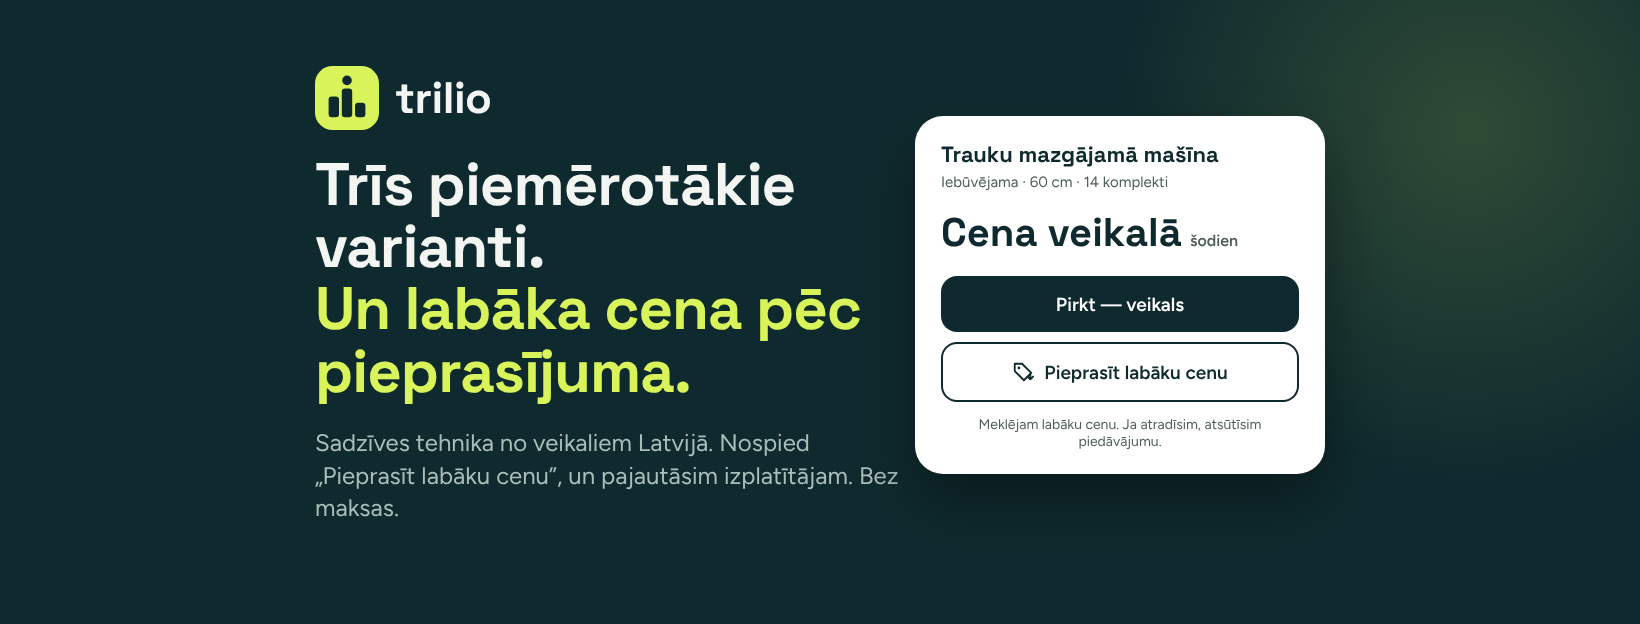
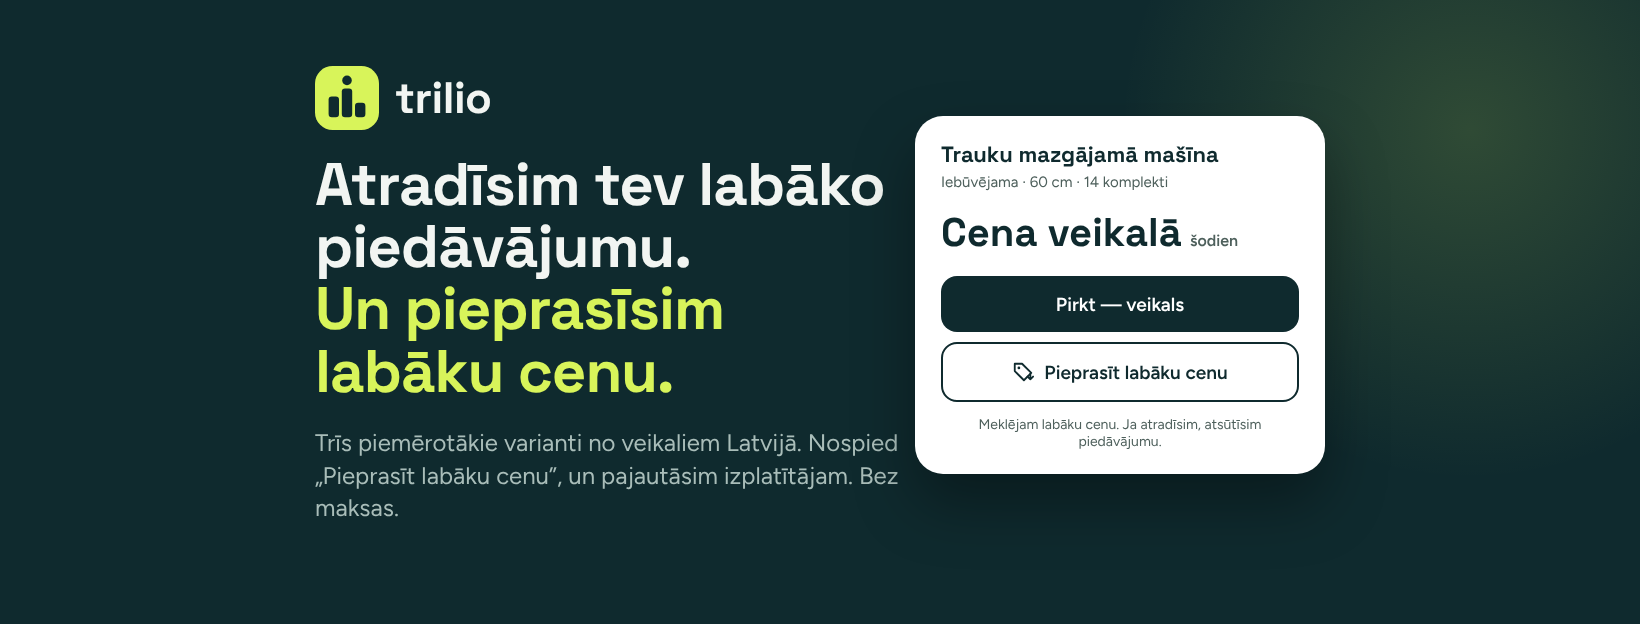
Cover and share image say the promise: find the best deal, ask for a better price
"Bez meklēšanas" read as misleading to the owner; the Facebook cover and
public/og.png now carry "Atradīsim tev labāko piedāvājumu. Un pieprasīsim
labāku cenu." with the card and its button; the share-image alt follows.

Claude-Session: https://claude.ai/code/session_015HBUkb7GNF5eP3hcTPAs8j

Changed region(s): [[0.1866, 0.2436, 0.5598, 0.6394], [0.1866, 0.7003, 0.5598, 0.7308]]

diff --git a/src/app/[locale]/seo.ts b/src/app/[locale]/seo.ts
@@ -9,8 +9,8 @@ import { appBaseUrl } from "@/services/payments";
 // own title spread openGraphBase() to keep the site name, locale and share image.
 
 const OG_ALT: Record<UiLocale, string> = {
-  lv: "Trilio — trīs labākie. Bez meklēšanas.",
-  en: "Trilio — the best three. No searching.",
+  lv: "Trilio — atradīsim tev labāko piedāvājumu un pieprasīsim labāku cenu.",
+  en: "Trilio — we find you the best deal and ask for a better price.",
 };
 const OG_LOCALE: Record<UiLocale, string> = { lv: "lv_LV", en: "en_GB" };
 
